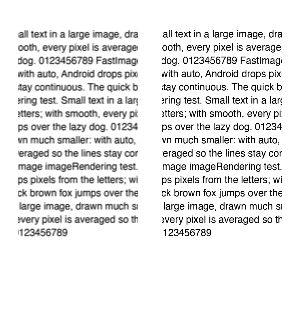
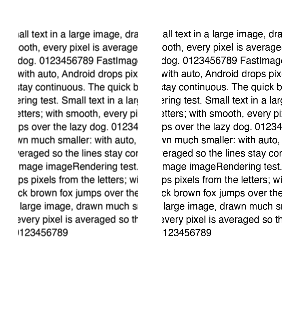
fix(ios): draw downsampled images on whole pixels, not blurred on a half pixel (#1384)
A downsampled image is decoded at the size it's shown at, a pixel of it per
pixel on screen. Centered by cover or contain with an odd number of pixels
cropped off or left empty, it was drawn on a half pixel: each pixel on screen
from two of the image's, blurred. The view's layer now leaves out the image's
last column or row (contentsRect) when that puts it on whole pixels, which
also covers ImageIO rounding the side matching the view's a pixel over.
Changing imageRendering after load aligns it again.

Changed region(s): [[0.06, 0.0926, 0.48, 0.7407]]

diff --git a/ReactNativeFastImageExample/src/RegressionExample.tsx b/ReactNativeFastImageExample/src/RegressionExample.tsx
@@ -6831,6 +6831,43 @@ function ImageRenderingCase({
     )
 }
 
+// imageRendering changed after the image has loaded: from pixelated, which
+// iOS leaves where the content mode puts it (on a half pixel here: a page
+// decoded at the view's size with cover, an odd number of pixels cropped
+// off), to auto, which it then moves onto whole pixels, as if auto from the
+// start (the right view).
+function ImageRenderingChangeCase() {
+    const [loads, setLoads] = useState(0)
+    const onLoad = () => setLoads((n) => n + 1)
+    const rendering = loads >= 2 ? 'auto' : 'pixelated'
+    return (
+        <View style={styles.row}>
+            <FastImage
+                style={downsampleStyles.tall}
+                source={{ uri: imageUrl('text-page.png') }}
+                imageRendering={rendering}
+                downsample
+                onLoad={onLoad}
+            />
+            <FastImage
+                style={[downsampleStyles.tall, styles.gap]}
+                source={{ uri: imageUrl('text-page.png') }}
+                downsample
+                onLoad={onLoad}
+            />
+            <CaseStatus
+                id="image-rendering-change"
+                status={rendering === 'auto' ? 'OK' : `loaded ${loads}/2`}
+                description={{
+                    checks: 'imageRendering changed after load, from pixelated to auto: on iOS the image moves onto whole pixels then, as sharp as auto from the start.',
+                    steps: 'Loads a 1600x1000 page of text into two 40x96 views with downsample and cover: the left with imageRendering="pixelated", changed to auto once both have loaded, the right with auto. Passes once it has changed; the screenshot does the checking.',
+                    shows: 'Two tall crops of the middle of the page, the same and both sharp. A blurry left one is a failure.',
+                }}
+            />
+        </View>
+    )
+}
+
 const renderingStyles = StyleSheet.create({
     case: { marginBottom: 16 },
     original: {
@@ -10628,9 +10665,12 @@ export const REGRESSION_GROUPS: RegressionGroup[] = [
         description: {
             checks: 'imageRendering auto, smooth (iOS only) and pixelated, on images drawn smaller and larger than their size.',
         },
-        cases: RENDERING_CASES.map((c) => (
-            <ImageRenderingCase key={c.id} {...c} />
-        )),
+        cases: [
+            ...RENDERING_CASES.map((c) => (
+                <ImageRenderingCase key={c.id} {...c} />
+            )),
+            <ImageRenderingChangeCase key="image-rendering-change" />,
+        ],
     },
     {
         name: 'blur',
@@ -10792,9 +10832,9 @@ export const REGRESSION_GROUPS: RegressionGroup[] = [
                 key="downsample-cover"
                 id="downsample-cover"
                 description={{
-                    checks: 'downsample with cover decodes a wide image large enough to cover a tall view, not to fit in it, so it is as sharp as without downsample.',
+                    checks: 'downsample with cover decodes a wide image large enough to cover a tall view, not to fit in it, and shows it a pixel per pixel on whole pixels (on iOS, centered, it was on a half pixel: blurred).',
                     steps: 'Loads a 1600x1000 page of text into two 40x96 views with cover: the left with downsample, the right with downsample={false}. Passes once both onLoad events report 1600x1000.',
-                    shows: 'Two tall crops of the middle of the page, the text equally sharp in both. A blurrier left crop is a failure.',
+                    shows: "Two tall crops of the middle of the page, both sharp: the left smooth (the page averaged to the view's size), the right crisper and more jagged (the whole page drawn smaller). Blurry text on the left is a failure.",
                 }}
                 image="text-page.png"
                 size="1600x1000"

diff --git a/ios/FastImage/FFFastImageView.m b/ios/FastImage/FFFastImageView.m
@@ -254,6 +254,9 @@ static void FFFShareAnimationBudget(void) {
         self.layer.minificationFilter = kCAFilterLinear;
         self.layer.magnificationFilter = kCAFilterLinear;
     }
+    // Only a filtered image is moved onto whole pixels (see
+    // updatePixelAlignment).
+    [self updatePosition];
 }
 
 - (void) setLoopCount: (NSInteger)loopCount {
@@ -459,6 +462,7 @@ static void FFFShareAnimationBudget(void) {
 // bounds) only has to move back (see updateMask). Not moved, as most images
 // are, the view clips to its bounds as before.
 - (void) updatePosition {
+    [self updatePixelAlignment];
     CGPoint offset = [self imageOffset];
     if (!CGPointEqualToPoint(offset, self.positionOffset)) {
         self.positionOffset = offset;
@@ -467,33 +471,91 @@ static void FFFShareAnimationBudget(void) {
     [self updateMask];
 }
 
+// The scale the content mode draws an image of this size (in points) at in
+// the view, or 0 for fill (or another mode), which stretches it.
+- (CGFloat) contentScale: (CGSize)size {
+    CGSize view = self.box.size;
+    if (size.width <= 0 || size.height <= 0 || view.width <= 0 || view.height <= 0) {
+        return 0;
+    }
+    switch (self.contentMode) {
+        case UIViewContentModeScaleAspectFill:
+            return MAX(view.width / size.width, view.height / size.height);
+        case UIViewContentModeScaleAspectFit:
+            return MIN(view.width / size.width, view.height / size.height);
+        case UIViewContentModeCenter:
+            return 1;
+        default:
+            return 0;
+    }
+}
+
+// The image's size as the layer shows it: without the column or row
+// updatePixelAlignment leaves out.
+- (CGSize) shownImageSize {
+    CGSize size = super.image.size;
+    CGRect rect = self.layer.contentsRect;
+    return CGSizeMake(size.width * rect.size.width, size.height * rect.size.height);
+}
+
 // How far objectPosition moves the image from the center: on each axis its
 // left or top edge is at (view - image) * fraction + offset, where the
 // content mode centers it at (view - image) / 2. Nothing for fill, which
 // fills the view.
 - (CGPoint) imageOffset {
     CGSize view = self.box.size;
-    CGSize size = super.image.size;
-    if (size.width <= 0 || size.height <= 0 || view.width <= 0 || view.height <= 0) {
+    CGSize size = [self shownImageSize];
+    CGFloat scale = [self contentScale: size];
+    if (scale <= 0) {
         return CGPointZero;
-    }
-    CGFloat scale;
-    switch (self.contentMode) {
-        case UIViewContentModeScaleAspectFill:
-            scale = MAX(view.width / size.width, view.height / size.height);
-            break;
-        case UIViewContentModeScaleAspectFit:
-            scale = MIN(view.width / size.width, view.height / size.height);
-            break;
-        case UIViewContentModeCenter:
-            scale = 1;
-            break;
-        default:
-            return CGPointZero;
     }
     CGFloat x = (view.width - size.width * scale) * (_objectPositionX - 0.5) + _objectPositionXOffset;
     CGFloat y = (view.height - size.height * scale) * (_objectPositionY - 0.5) + _objectPositionYOffset;
     return CGPointMake(isfinite(x) ? x : 0, isfinite(y) ? y : 0);
+}
+
+// A downsampled image is decoded at the size it's shown at, a pixel of it for
+// each pixel on screen, which is only sharp with its edges on the screen's
+// pixels. Centered (cover and contain, by default), an odd number of pixels
+// cropped off or left empty puts them on a half pixel, where each pixel on
+// screen is drawn from two of the image's: blurred. ImageIO decodes to a
+// longest side and rounds the other, so that one can also come out a pixel
+// over the view's, drawn a little smaller. The layer then leaves out the
+// image's last column or row (or both), if that shows it a pixel per pixel,
+// on whole pixels.
+- (void) updatePixelAlignment {
+    CGRect rect = CGRectMake(0, 0, 1, 1);
+    UIImage* image = super.image;
+    CGFloat screenScale = self.window.screen.scale ?: [UIScreen mainScreen].scale;
+    CGSize view = self.box.size;
+    CGFloat width = image.size.width * image.scale;
+    CGFloat height = image.size.height * image.scale;
+    // A pixelated image is drawn without filtering: a half pixel doesn't blur
+    // it.
+    if (image && width >= 2 && height >= 2 && view.width > 0 && view.height > 0 &&
+        ![_imageRendering isEqualToString: @"pixelated"]) {
+        for (int trim = 0; trim < 4; trim++) {
+            CGFloat shownWidth = width - (trim & 1);
+            CGFloat shownHeight = height - (trim >> 1);
+            CGSize size = CGSizeMake(shownWidth / image.scale, shownHeight / image.scale);
+            CGFloat scale = [self contentScale: size];
+            // Pixels on screen per pixel of the image, and the image's left
+            // and top edges in pixels.
+            CGFloat pixels = scale * screenScale / image.scale;
+            CGFloat left = ((view.width - size.width * scale) * _objectPositionX + _objectPositionXOffset) * screenScale;
+            CGFloat top = ((view.height - size.height * scale) * _objectPositionY + _objectPositionYOffset) * screenScale;
+            if (fabs(pixels - 1) < 1e-3 && fabs(left - round(left)) < 1e-3 && fabs(top - round(top)) < 1e-3) {
+                rect = CGRectMake(0, 0, shownWidth / width, shownHeight / height);
+                break;
+            }
+        }
+    }
+    if (!CGRectEqualToRect(self.layer.contentsRect, rect)) {
+        [CATransaction begin];
+        [CATransaction setDisableActions: YES];
+        self.layer.contentsRect = rect;
+        [CATransaction commit];
+    }
 }
 
 - (void) updateMask {
